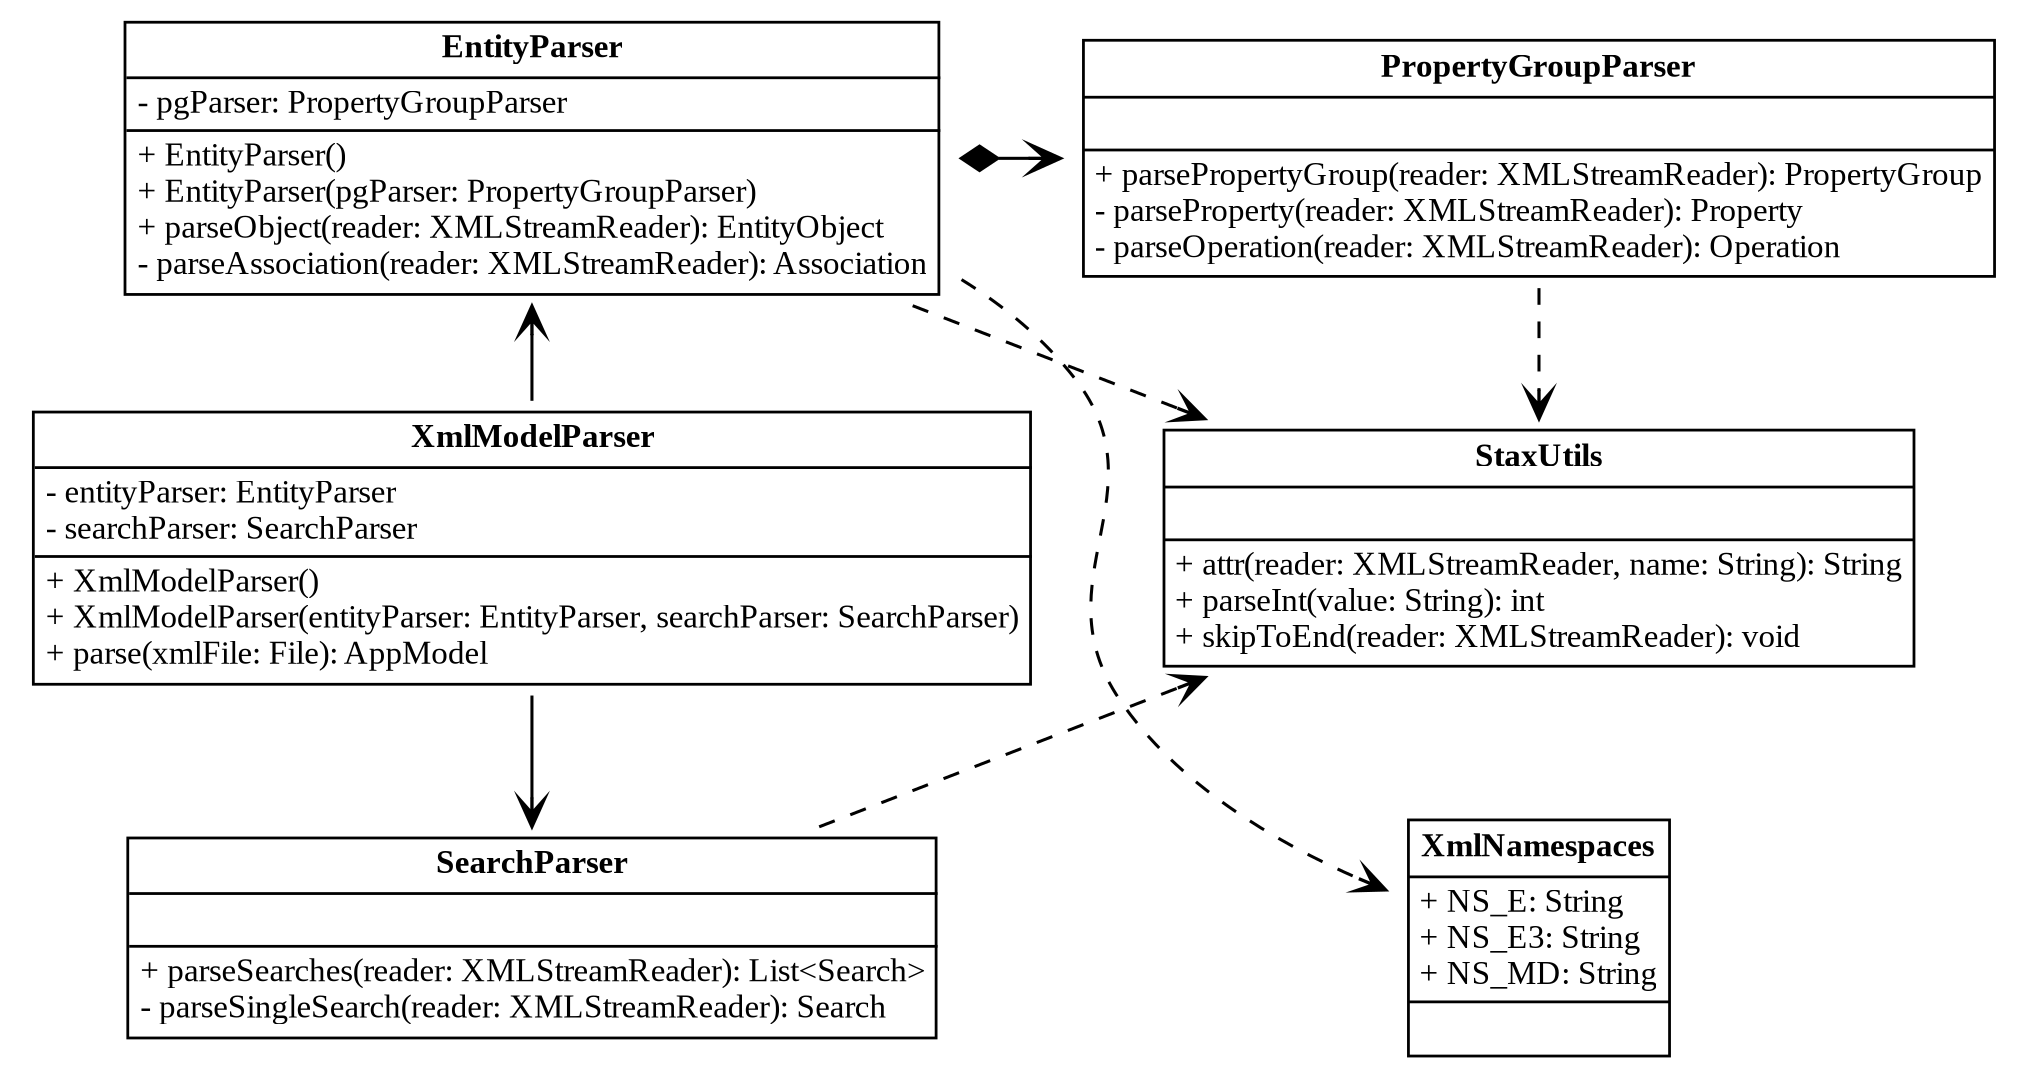
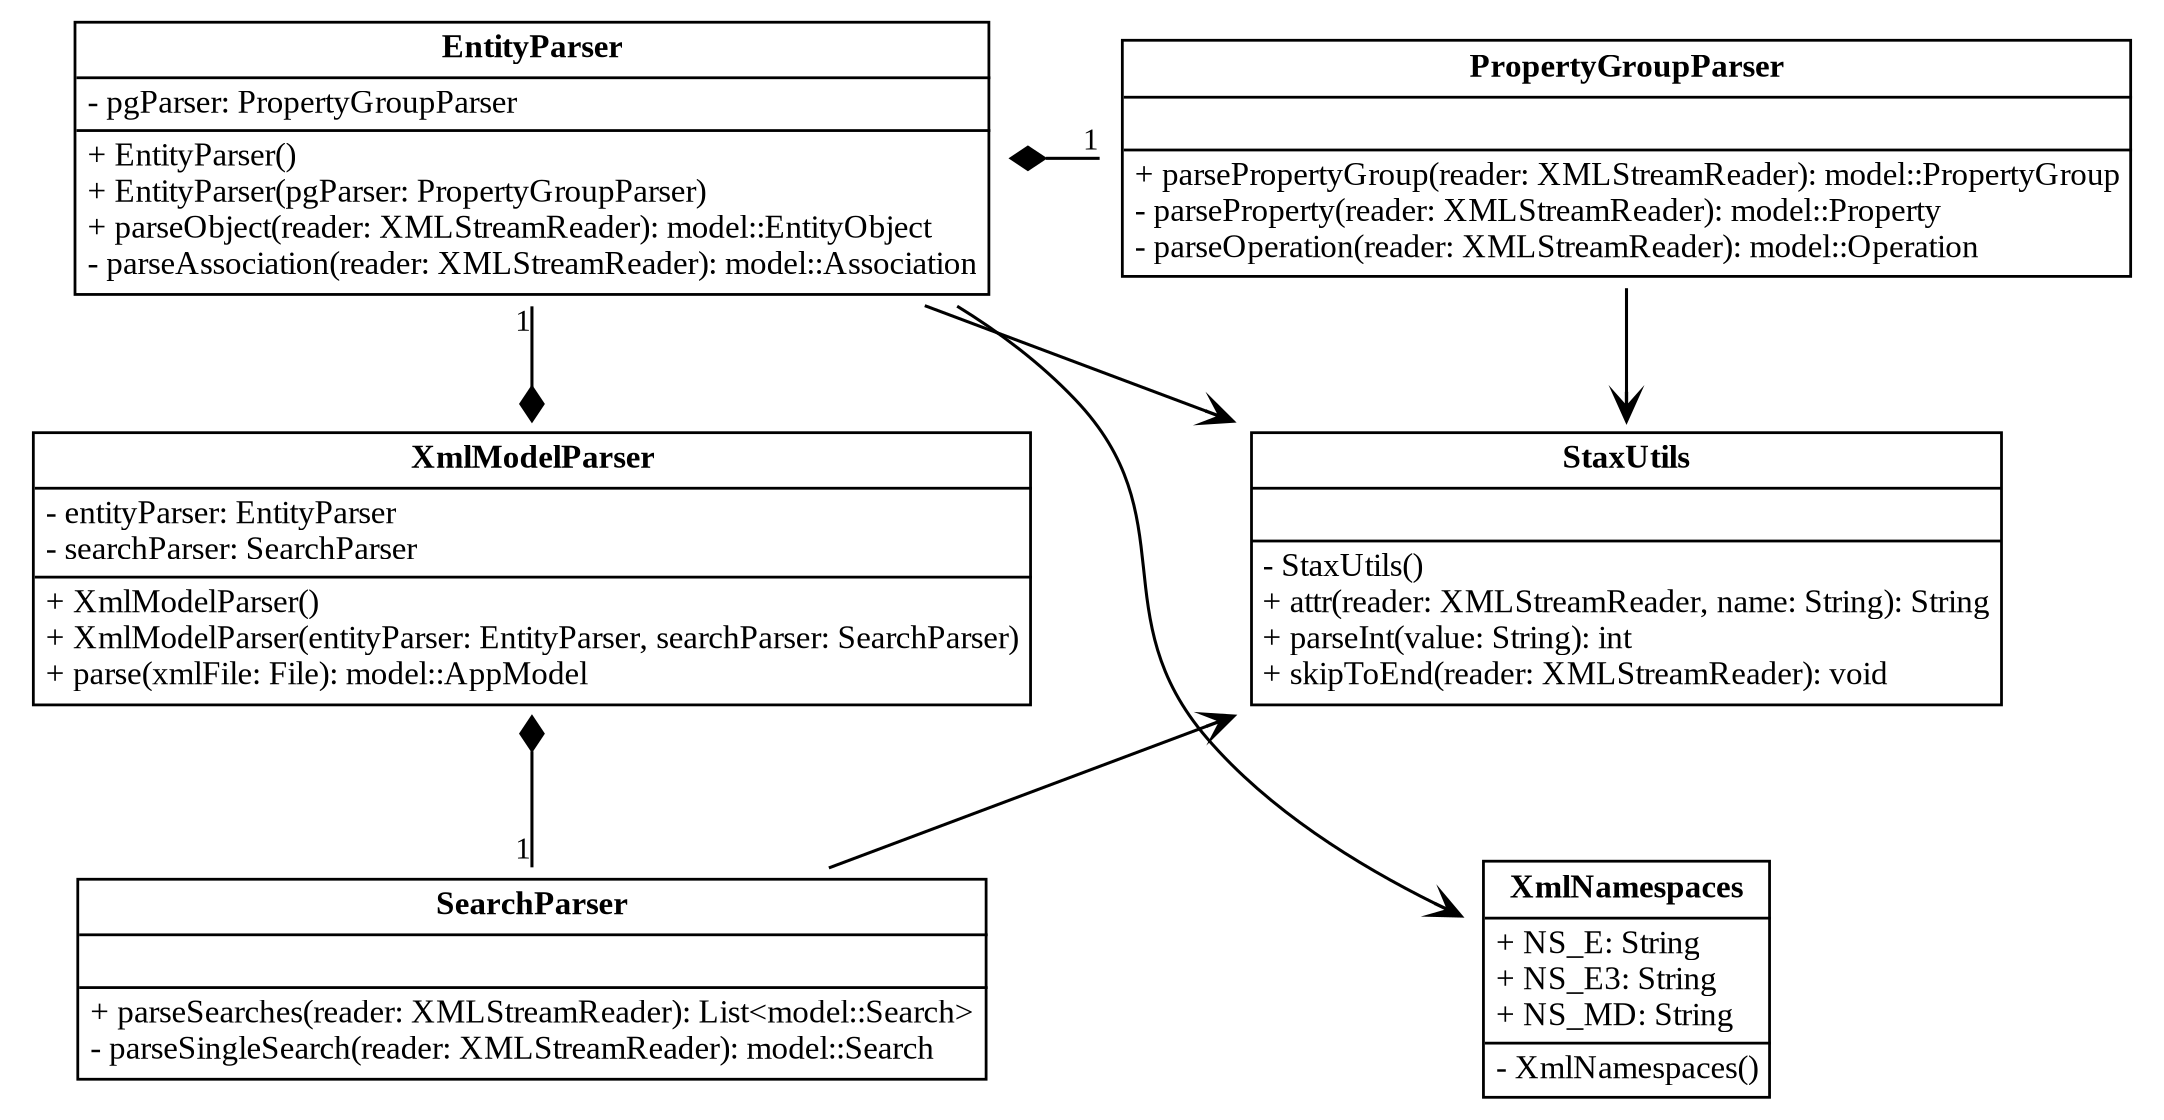
Диаграммы классов: восстановлены конструкторы StaxUtils()/XmlNamespaces(), исправлены виды связи (композиция XmlModelParser/EntityParser, ассоциации к StaxUtils/XmlNamespaces); Generator дополнен по коду (все методы/поля)

diff --git a/diagrams_1_5/scripts/gen_class_diagrams.py b/diagrams_1_5/scripts/gen_class_diagrams.py
@@ -1,10 +1,12 @@
 # -*- coding: utf-8 -*-
 """Детальные диаграммы классов пакетов Parser (Рис.39) и Generator (Рис.53).
-Пересозданы по коду ru.autotestgen.{parser,generator}. UML-классы — HTML-таблицы
-с тремя компартментами (имя | атрибуты | методы). Стрелки: ассоциация — vee,
-композиция — ромб, зависимость — пунктир.
-- Parser: SearchParser и XmlNamespaces вынесены в НИЖНИЙ ряд (neato, pinned pos).
-- Generator: иерархия (dot) с большими отступами, чтобы стрелки не слипались.
+Содержимое выверено: Parser — 1-в-1 с оригиналом (media/image40.png) + код;
+Generator — по коду ru.autotestgen.generator (оригинала в репозитории нет).
+UML-классы — HTML-таблицы (имя | поля | методы).
+Виды связи: композиция — ◆ (заливной ромб у владельца); направленная
+ассоциация — сплошная линия с открытой стрелкой ▷; зависимость — пунктир ⇢.
+- Parser: SearchParser и XmlNamespaces — в НИЖНЕМ ряду.
+- Generator: иерархия (dot), стрелки разведены.
 Выход: diagrams_1_5/ris_39_parser_classes.png, ris_53_generator_classes.png."""
 import subprocess
 import os
@@ -31,91 +33,111 @@ def run(name, dot, engine):
     print(f"{name}: {w}x{h}  ratio {w/h:.2f}")
 
 
-ASSOC = 'arrowhead=vee'
-COMP = 'dir=both, arrowtail=diamond, arrowhead=vee, arrowsize=1.1'
-DEP = 'style=dashed, arrowhead=vee'
+ASSOC = 'arrowhead=vee'                                   # направленная ассоциация (сплошная)
+COMP = 'dir=both, arrowtail=diamond, arrowhead=none, headlabel="1"'  # композиция (◆ у владельца)
+DEP = 'style=dashed, arrowhead=vee'                        # зависимость (⇢)
 
 # ============================ Parser (Рис.39) ============================
 P = {
  "EP": uml("EntityParser",
            ["- pgParser: PropertyGroupParser"],
-           ["+ EntityParser()", "+ EntityParser(pgParser: PropertyGroupParser)",
-            "+ parseObject(reader: XMLStreamReader): EntityObject",
-            "- parseAssociation(reader: XMLStreamReader): Association"]),
+           ["+ EntityParser()",
+            "+ EntityParser(pgParser: PropertyGroupParser)",
+            "+ parseObject(reader: XMLStreamReader): model::EntityObject",
+            "- parseAssociation(reader: XMLStreamReader): model::Association"]),
  "PGP": uml("PropertyGroupParser", [],
-            ["+ parsePropertyGroup(reader: XMLStreamReader): PropertyGroup",
-             "- parseProperty(reader: XMLStreamReader): Property",
-             "- parseOperation(reader: XMLStreamReader): Operation"]),
+            ["+ parsePropertyGroup(reader: XMLStreamReader): model::PropertyGroup",
+             "- parseProperty(reader: XMLStreamReader): model::Property",
+             "- parseOperation(reader: XMLStreamReader): model::Operation"]),
  "SU": uml("StaxUtils", [],
-           ["+ attr(reader: XMLStreamReader, name: String): String",
+           ["- StaxUtils()",
+            "+ attr(reader: XMLStreamReader, name: String): String",
             "+ parseInt(value: String): int",
             "+ skipToEnd(reader: XMLStreamReader): void"]),
  "XMP": uml("XmlModelParser",
             ["- entityParser: EntityParser", "- searchParser: SearchParser"],
             ["+ XmlModelParser()",
              "+ XmlModelParser(entityParser: EntityParser, searchParser: SearchParser)",
-             "+ parse(xmlFile: File): AppModel"]),
+             "+ parse(xmlFile: File): model::AppModel"]),
  "SP": uml("SearchParser", [],
-           ["+ parseSearches(reader: XMLStreamReader): List&lt;Search&gt;",
-            "- parseSingleSearch(reader: XMLStreamReader): Search"]),
+           ["+ parseSearches(reader: XMLStreamReader): List&lt;model::Search&gt;",
+            "- parseSingleSearch(reader: XMLStreamReader): model::Search"]),
  "XN": uml("XmlNamespaces",
-           ["+ NS_E: String", "+ NS_E3: String", "+ NS_MD: String"], []),
+           ["+ NS_E: String", "+ NS_E3: String", "+ NS_MD: String"],
+           ["- XmlNamespaces()"]),
 }
-# позиции (y вверх): верхний ряд — EP,PGP; средний — XMP,SU; нижний — SP,XN
-pos = {"EP": (0, 5.0), "PGP": (6.2, 5.0), "XMP": (0, 2.6), "SU": (6.2, 2.6),
-       "SP": (0, 0.2), "XN": (6.2, 0.2)}
+pos = {"EP": (0, 5.0), "PGP": (6.4, 5.0), "XMP": (0, 2.6), "SU": (6.4, 2.6),
+       "SP": (0, 0.2), "XN": (6.4, 0.2)}
 nodes = "\n".join(f'{k} [shape=plaintext, label={P[k]}, pos="{x},{y}!"];' for k, (x, y) in pos.items())
 edges = "\n".join([
-    f'XMP -> EP [{ASSOC}];',
-    f'XMP -> SP [{ASSOC}];',
-    f'EP -> PGP [{COMP}];',
-    f'EP -> SU [{DEP}];',
-    f'EP -> XN [{DEP}];',
-    f'PGP -> SU [{DEP}];',
-    f'SP -> SU [{DEP}];',
+    f'XMP -> EP [{COMP}];',     # XmlModelParser ◆— EntityParser (поле entityParser)
+    f'XMP -> SP [{COMP}];',     # XmlModelParser ◆— SearchParser (поле searchParser)
+    f'EP -> PGP [{COMP}];',     # EntityParser ◆— PropertyGroupParser (поле pgParser)
+    f'EP -> SU [{ASSOC}];',     # EntityParser ▷ StaxUtils
+    f'EP -> XN [{ASSOC}];',     # EntityParser ▷ XmlNamespaces
+    f'PGP -> SU [{ASSOC}];',    # PropertyGroupParser ▷ StaxUtils
+    f'SP -> SU [{ASSOC}];',     # SearchParser ▷ StaxUtils
 ])
 run("ris_39_parser_classes", f'''digraph G {{
   layout=neato; bgcolor=white; splines=true; overlap=false; sep="+16"; esep="+8";
-  node [fontname="{F}", fontsize=12]; edge [fontname="{F}", fontsize=11, color=black, penwidth=1.1];
+  node [fontname="{F}", fontsize=12];
+  edge [fontname="{F}", fontsize=11, color=black, penwidth=1.1, labelfontsize=11];
 {nodes}
 {edges}
 }}''', "neato")
 
 # ============================ Generator (Рис.53) ============================
 G = {
- "TG": uml("TestGenerator", [],
-           ["+ generate(model: AppModel, config: TestConfig): void"]),
+ "TG": uml("TestGenerator",
+           ["- config: TestConfig"],
+           ["+ TestGenerator(config: TestConfig)",
+            "+ generate(model: AppModel): void",
+            "+ folderNameForXml(xmlFileName: String): String {static}",
+            "+ resolveProjectDir(baseOutput: Path, xmlFileName: String): Path {static}",
+            "- generatePom() / generateSharedDriver()",
+            "- generateBaseTest() / generateTestData()"]),
  "TCfg": uml("TestConfig",
-             ["- url, login, password: String", "- outputDir, basePackage: String",
-              "- fastMode: boolean", "- testLevel: String"],
-             ["+ get/set …()"]),
- "POW": uml("PageObjectWriter", [],
-            ["+ write(entity: EntityObject, srcDir: Path): void"]),
+             ["- baseUrl, login, password: String", "- outputDir: Path",
+              "- browserType, basePackage, siteType: String",
+              "- subsystemName, testLevel, sourceXmlName: String",
+              "- smokeAllSubsystems: boolean"],
+             ["+ геттеры/сеттеры всех полей"]),
+ "POW": uml("PageObjectWriter",
+            ["- basePackage: String"],
+            ["+ PageObjectWriter(basePackage: String)",
+             "+ write(entity: EntityObject, outputDir: Path): void"]),
  "TCW": uml("TestClassWriter",
             ["- basePackage: String", "- testLevel: String"],
-            ["+ write(entity, model, srcDir): void",
-             "+ writeChildTest(entity, model, srcDir, cls): void",
-             "+ writeTreeChildTest(entity, model, srcDir, cls): void"]),
+            ["+ TestClassWriter(basePackage: String, testLevel: String)",
+             "+ write(entity: EntityObject, model: AppModel, outputDir: Path): void",
+             "+ write(entity, model, outputDir, disabledReason: String): void",
+             "+ writeChildTest(entity, model, outputDir, twin): void",
+             "+ writeTreeChildTest(entity, model, outputDir, parent): void"]),
  "TDF": uml("TestDataFactory", [],
-            ["+ generateValue(property: Property): String",
-             "+ generateFromMask(mask: String): String"]),
+            ["+ generateValue(property: Property): String {static}",
+             "+ generateSearchParamValue(param: SearchParam): String {static}",
+             "+ generateFromMask(mask: String): String {static}",
+             "+ generateValueExpression(property: Property): String {static}"]),
  "TR": uml("TestRunner", [],
-           ["+ run(projectDir, xmlFile, baseUrl, filter, fastMode): TestRunResult",
-            "- parseSurefireReports(reportsDir): List&lt;TestCaseResult&gt;"]),
+           ["+ run(projectDir: Path, xmlFileName: String, baseUrl: String): TestRunResult",
+            "+ run(…, lineConsumer / testFilter, fastMode): TestRunResult",
+            "+ getLastMavenOutput(): String",
+            "- parseSurefireReports(reportsDir: Path, result: TestRunResult): void",
+            "- linkScreenshots(shotDir: Path, result: TestRunResult): void"]),
  "RRW": uml("RunReportWriter", [],
-            ["+ write(result: TestRunResult, dir: Path): void",
-             "- writeCsv(result, dir): void"]),
+            ["+ write(htmlPath: Path, result: TestRunResult): void",
+             "+ writeCsv(csvPath: Path, result: TestRunResult): void"]),
 }
 gnodes = "\n".join(f'{k} [shape=plaintext, label={v}];' for k, v in G.items())
 gedges = "\n".join([
     '{ rank=same; TG; TR; }',
-    '{ rank=same; POW; TCW; TCfg; RRW; }',
-    f'TG -> TCfg [{DEP}, label="config"];',
-    f'TG -> POW [{DEP}];',
+    '{ rank=same; TCfg; POW; TCW; RRW; }',
+    f'TG -> TCfg [{ASSOC}];',   # поле config: TestConfig (ассоциация)
+    f'TG -> POW [{DEP}];',      # создаёт/использует
     f'TG -> TCW [{DEP}];',
-    f'TR -> RRW [{DEP}];',
-    f'POW -> TDF [{DEP}];',
+    f'POW -> TDF [{DEP}];',     # static-вызовы TestDataFactory
     f'TCW -> TDF [{DEP}];',
+    f'TR -> RRW [{DEP}];',      # формирует отчёты
 ])
 run("ris_53_generator_classes", f'''digraph G {{
   layout=dot; rankdir=TB; bgcolor=white; splines=polyline;
